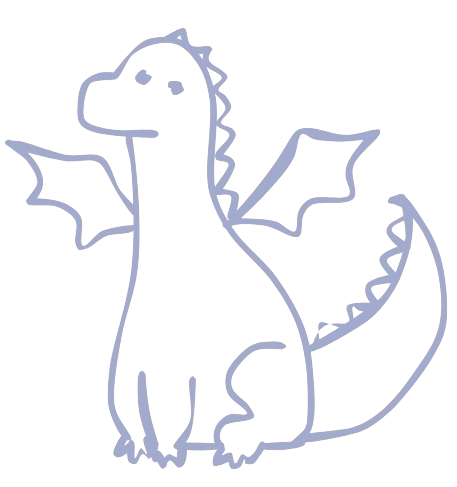
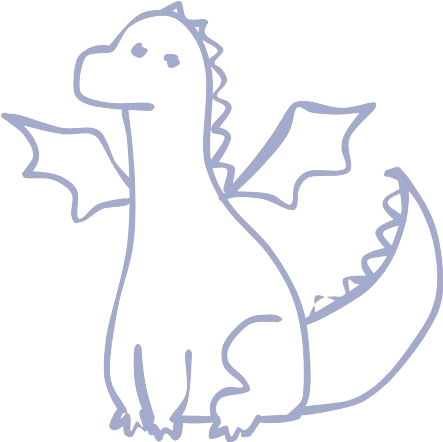
added new doodles for articles, made sure that the props do not cause cascading changes by just passing the antire article or descirption and letting the component take each of the variables, changed the styling of the highlighter

Changed region(s): [[0.0, 0.0, 1.0, 1.0], [0.2348, 0.7059, 0.2641, 0.7647], [0.2935, 0.7647, 0.3228, 0.7941]]

diff --git a/src/lib/pageCards/Article.svelte b/src/lib/pageCards/Article.svelte
@@ -3,21 +3,24 @@
   import Sticker from "$lib/components/Sticker.svelte";
   import { highlightText } from "$lib/helpers/pageFunctions";
 
-  let { articleImg={}, articleLink = "", articleText, articleTitle, articleDark, articleTech=[]} = $props();
+  let { article } = $props();
 
-  const flexDirection = $derived(articleImg.imgLeft ? "flex-row" : "flex-row-reverse");
-  const justifyDirection = $derived(articleImg.imgLeft ? "justify-start" : "justify-end");
-  const darkModeText = $derived(articleDark ? "text-cream-100" : "");
-  const textHighlight = $derived(articleDark? "highlightDark" : "highlight");
-  const textSegments = $derived(highlightText(articleText));
+  const flexDirection = $derived(article.imgConfig.imgLeft ? "flex-row" : "flex-row-reverse");
+  const justifyDirection = $derived(article.imgConfig.imgLeft ? "justify-start" : "justify-end");
+  const darkModeText = $derived(article.darkStyle ? "text-cream-100" : "");
+  const textHighlight = $derived(article.darkStyle? "highlightDark" : "highlight");
+  const textSegments = $derived(highlightText(article.text));
 </script>
 
-<div class="main relative gap-[10%] overflow-hidden justify-center items-center flex {flexDirection} {darkModeText}">
-  <div class="w-[40%] flex flex-col gap-7">  
+<div class="main gap-32 overflow-hidden justify-center items-center flex {flexDirection} {darkModeText}">
+  <div class="relative w-[40%] max-w-3xl flex flex-col gap-7">  
+    {#each article.doodles as doodle}
+      <Sticker stickerStyling={doodle.styling} stickerImg={doodle.img} stickerDoodle={true}/>
+    {/each}
     <div class="flex flex-row gap-2 {justifyDirection}">
-      <h1 class="text-4xl uppercase font-hand font-medium text-lavander-100 text-shadow-boldest">{articleTitle}</h1>
-      {#if articleLink}
-        <a href={articleLink}>
+      <h1 class="text-4xl uppercase font-hand font-medium text-lavander-100 text-shadow-boldest">{article.title}</h1>
+      {#if article.link}
+        <a href={article.link}>
           <img class="h-10" src={githubImg} alt="github" />
         </a>
       {/if}
@@ -32,7 +35,7 @@
       {/each}
     </article>
     <div class="w-full justify-between flex">
-      {#each articleTech as tech}
+      {#each article.tech as tech}
         <div class="border-2 border-lavander-100 bg-lavander-50 p-3 rounded-4xl hover:scale-105 transition ease-in-out cursor-default">
           <p>{tech}</p>
         </div>
@@ -40,9 +43,9 @@
     </div>
   </div>
   <div class="relative flex justify-center items-center">
-    {#each articleImg.doodles as doodle}
-      <Sticker stickerStyling={doodle.styling} stickerImg={doodle.img}/>
+    {#each article.imgConfig.stickers as sticker}
+      <Sticker stickerStyling={sticker.styling} stickerImg={sticker.img}/>
     {/each}
-    <img class="{articleImg.size} shadow-xl object-scale-down"  src={articleImg.img} alt={articleTitle} />
+    <img class="{article.imgConfig.size} shadow-xl object-scale-down"  src={article.imgConfig.img} alt={article.title} />
   </div>
 </div>

diff --git a/src/lib/helpers/projects.js b/src/lib/helpers/projects.js
@@ -15,6 +15,14 @@ import arrow4 from "$lib/assets/arrows/arrow4.png";
 import looneyFullImg from "$lib/assets/projectImages/looneyFull.png";
 import pageBuilderFullImg from "$lib/assets/projectImages/pageBuilderFull.png";
 import manageMeFullImg from "$lib/assets/projectImages/manageMeFull.png";
+import dragon from "$lib/assets/doodles/dragonDoodle.png";
+import robot from "$lib/assets/doodles/robotDoodle.png";
+import cup from "$lib/assets/doodles/cupDoodle.png";
+import controller from "$lib/assets/doodles/controllerDoodle.png";
+import drag from "$lib/assets/doodles/dragDoodle.png";
+import puzzle from "$lib/assets/doodles/puzzleDoodle.png";
+import book from "$lib/assets/doodles/bookDoodle.png";
+import chart from "$lib/assets/doodles/chartDoodle.png";
 
 export const projects = [
   {
@@ -82,11 +90,15 @@ export const articles = [
       imgLeft: true,
       img: pageBuilderFullImg,
       size: "h-100",
-      doodles: [
+      stickers: [
         { img: stickerRight1, styling: "-right-13 -top-13" },
         { img: stickerRight2, styling: "-left-13 -bottom-13" },
       ],
     },
+    doodles: [
+      { img: drag, styling: "w-29 -top-16 right-8 -rotate-30" },
+      { img: puzzle, styling: "w-76 -bottom-28 -right-160" },
+    ],
     tech: ["Angular", "TypeScript", "C#", "Anthropic API", "SCSS"]
   },
   {
@@ -103,11 +115,15 @@ export const articles = [
       imgLeft: false,
       img: looneyFullImg,
       size: "h-140",
-      doodles: [
+      stickers: [
         { img: stickerBottom, styling: "-top-8" },
         { img: stickerTop, styling: "-bottom-8" }
       ],
     },
+    doodles: [
+      { img: robot, styling: "w-29 -left-152 -top-12" },
+      { img: dragon, styling: "w-47 -bottom-32 -right-52" },
+    ],
     tech: ["SvelteKit", "Tailwind", "Microservices", "Docker", "TypeScript"]
   },
   {
@@ -125,11 +141,15 @@ export const articles = [
       imgLeft: true,
       img: curiousVillageImg,
       size: "h-90",
-      doodles: [
+      stickers: [
         { img: stickerLeft1, styling: "-left-13 -top-14" },
         { img: stickerLeft2, styling: "-right-13 -bottom-14" },
       ],
     },
+    doodles: [
+      { img: cup, styling: "w-29 -top-20 -right-32" },
+      { img: controller, styling: "w-36 -bottom-12 right-36" },
+    ],
     tech: ["TypeScript"]
   },
   {
@@ -144,8 +164,12 @@ export const articles = [
       imgLeft: false,
       img: manageMeFullImg,
       size: "h-100",
-      doodles: [{ img: stickerTop, styling: "-top-8" }],
+      stickers: [{ img: stickerTop, styling: "-top-8" }],
     },
+    doodles: [
+      { img: chart, styling: "w-29 -top-16 left-56" },
+      { img: book, styling: "w-32 -bottom-20 -left-36 -rotate-30" },
+    ],
     tech: ["SvelteKit", "Tailwind", "JavaScript", "MySQL", "D3.js"]
   }
 ]

diff --git a/src/lib/components/Description.svelte b/src/lib/components/Description.svelte
@@ -1,8 +1,8 @@
 <script>
-  let {descriptionStyling, descriptionRotate="", descriptionImg, description} = $props();
+  let { description } = $props();
 </script>
 
-<div class="absolute text-nowrap min-h-max min-w-min flex z-20 {descriptionStyling} items-center gap-2">
-  <p class="text-3xl text-lavander-100 font-hand font-bold">{description}</p>
-  <img src="{descriptionImg}" alt="arrow" class="h-20 {descriptionRotate}">
+<div class="absolute text-nowrap min-h-max min-w-min flex z-20 {description.styling} items-center gap-2">
+  <p class="text-3xl text-lavander-100 font-hand font-bold">{description.text}</p>
+  <img src="{description.img}" alt="arrow" class="h-20 {description.rotation}">
 </div>

diff --git a/src/lib/pageCards/Projects.svelte b/src/lib/pageCards/Projects.svelte
@@ -19,12 +19,7 @@
   {#each projects as project}
     <a href="#{createLink(project.name)}">
       <div class="relative flex justify-center hover:scale-105 duration-100">
-        <Description
-          description={project.description.text}
-          descriptionImg={project.description.img}
-          descriptionStyling={project.description.styling}
-          descriptionRotate={project.description.rotation}
-        />
+        <Description description={project.description}/>
         <ProjectCard projectName={project.name} projectImg={project.img} />
         {#each project.doodles as doodle}
           <Sticker stickerImg={doodle.img} stickerStyling={doodle.styling} />

diff --git a/src/routes/layout.css b/src/routes/layout.css
@@ -22,13 +22,13 @@ body {
 .highlight {
   background: url(//s2.svgbox.net/pen-brushes.svg?ic=brush-9&color=cbcedd) no-repeat center;
   background-size: 100% 100%;
-  padding: 0rem 0.4rem 0.1rem;
+  padding: 0rem 0.8rem 0.2rem;
 }
 
 .highlightDark {
   background: url(//s2.svgbox.net/pen-brushes.svg?ic=brush-9&color=525667) no-repeat center;
   background-size: 100% 100%;
-  padding: 0rem 0.4rem 0.1rem;
+  padding: 0rem 1rem 0.2rem;
 }
 
 .main {

diff --git a/src/lib/components/Sticker.svelte b/src/lib/components/Sticker.svelte
@@ -2,6 +2,6 @@
   let {stickerStyling, stickerDoodle=false, stickerImg} = $props();
 </script>
 
-<div class="absolute {stickerStyling} {stickerDoodle ? "" : "opacity-55"} scale-75 z-10">
-  <img class="w-32" src="{stickerImg}" alt="sticker">
+<div class="absolute z-10 {stickerStyling} {stickerDoodle ? "" : "opacity-55 scale-75"}">
+  <img class="{stickerDoodle ? "" : "w-32"}" src="{stickerImg}" alt="sticker">
 </div>

diff --git a/src/routes/+page.svelte b/src/routes/+page.svelte
@@ -56,7 +56,7 @@
   </section>
   {#each articles as article}
     <section class="{article.darkStyle ? "dark" : ""}" id="{createLink(article.title)}">
-      <Article articleImg={article.imgConfig} articleLink={article.link} articleText={article.text} articleTitle={article.title} articleDark={article.darkStyle} articleTech={article.tech}/>
+      <Article article={article}/>
     </section>
   {/each}
 </div>

diff --git a/src/lib/components/ProjectCard.svelte b/src/lib/components/ProjectCard.svelte
@@ -1,5 +1,5 @@
 <script>
-  let {projectImg, projectName, projectRotation = "0"} = $props();
+  let {projectImg, projectName} = $props();
 </script>
 
   <div class="w-64 h-72 p-3 flex flex-col gap-3 bg-cream-100 hover:cursor-pointer shadow-2xl">
